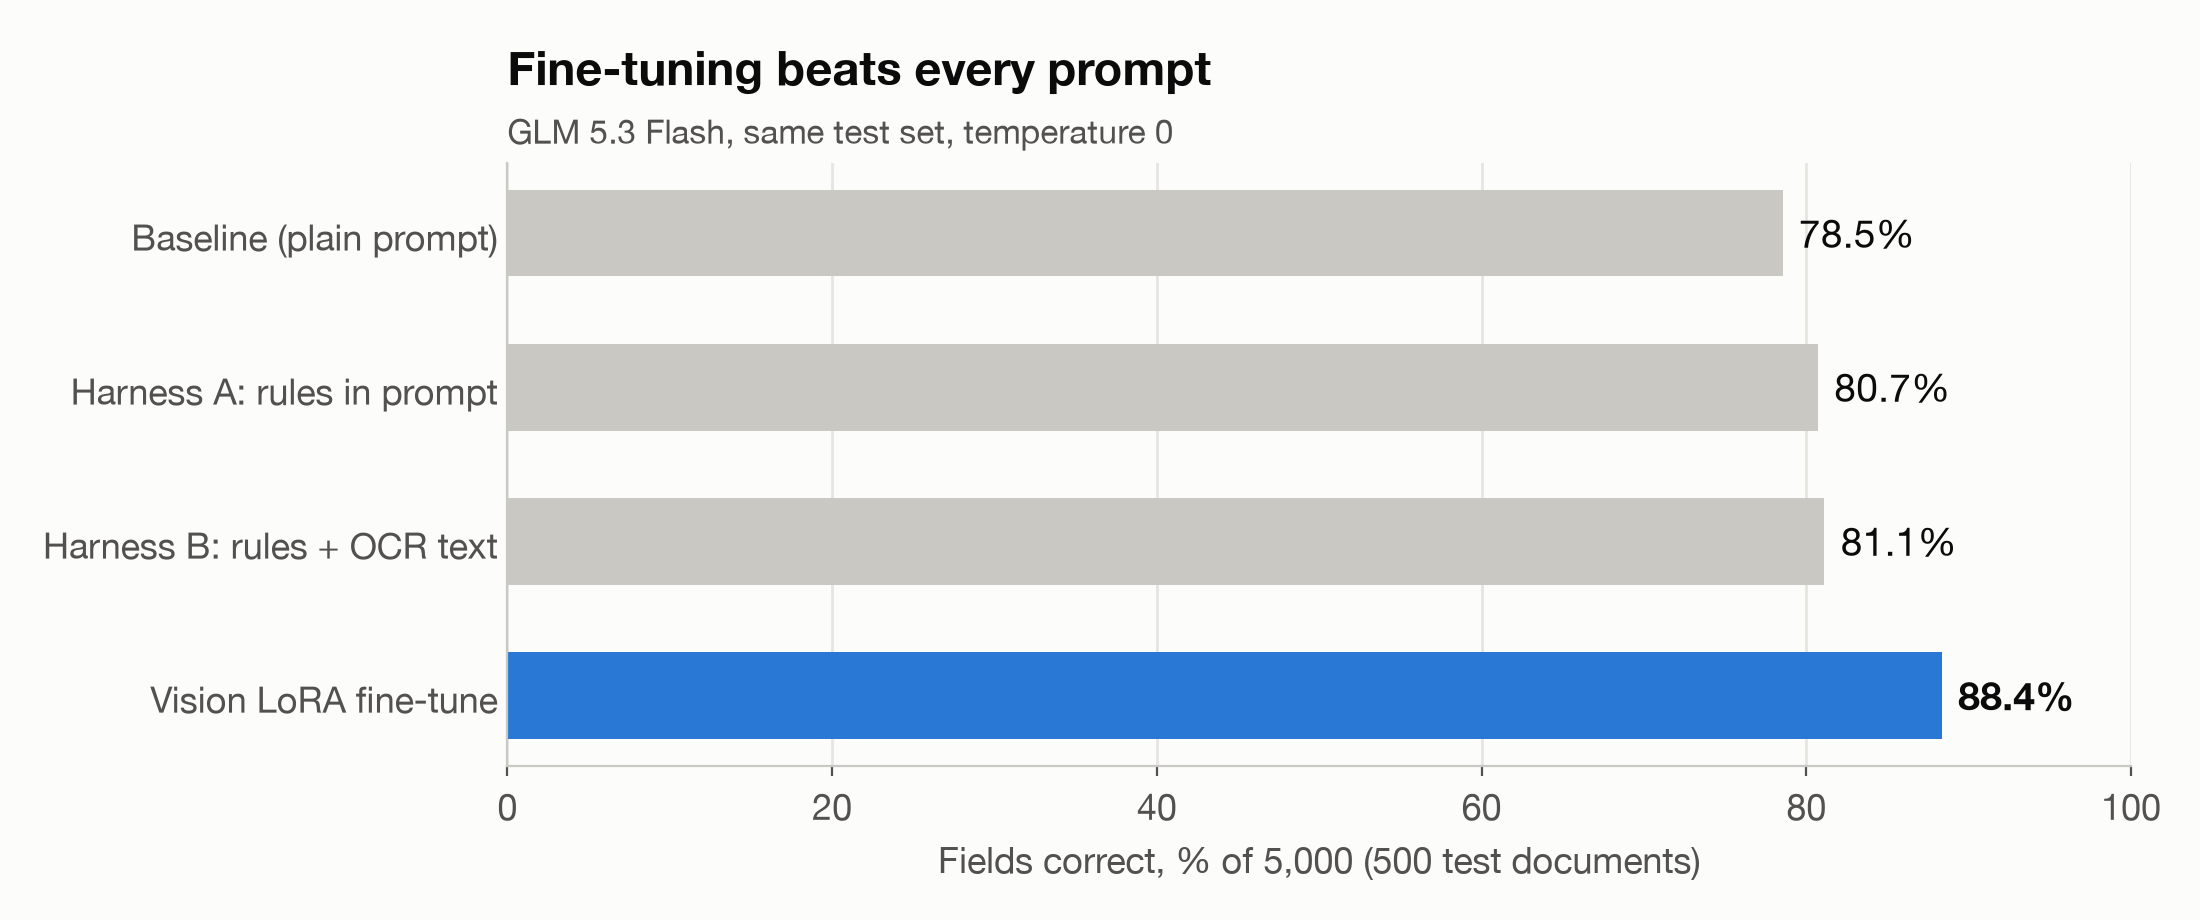
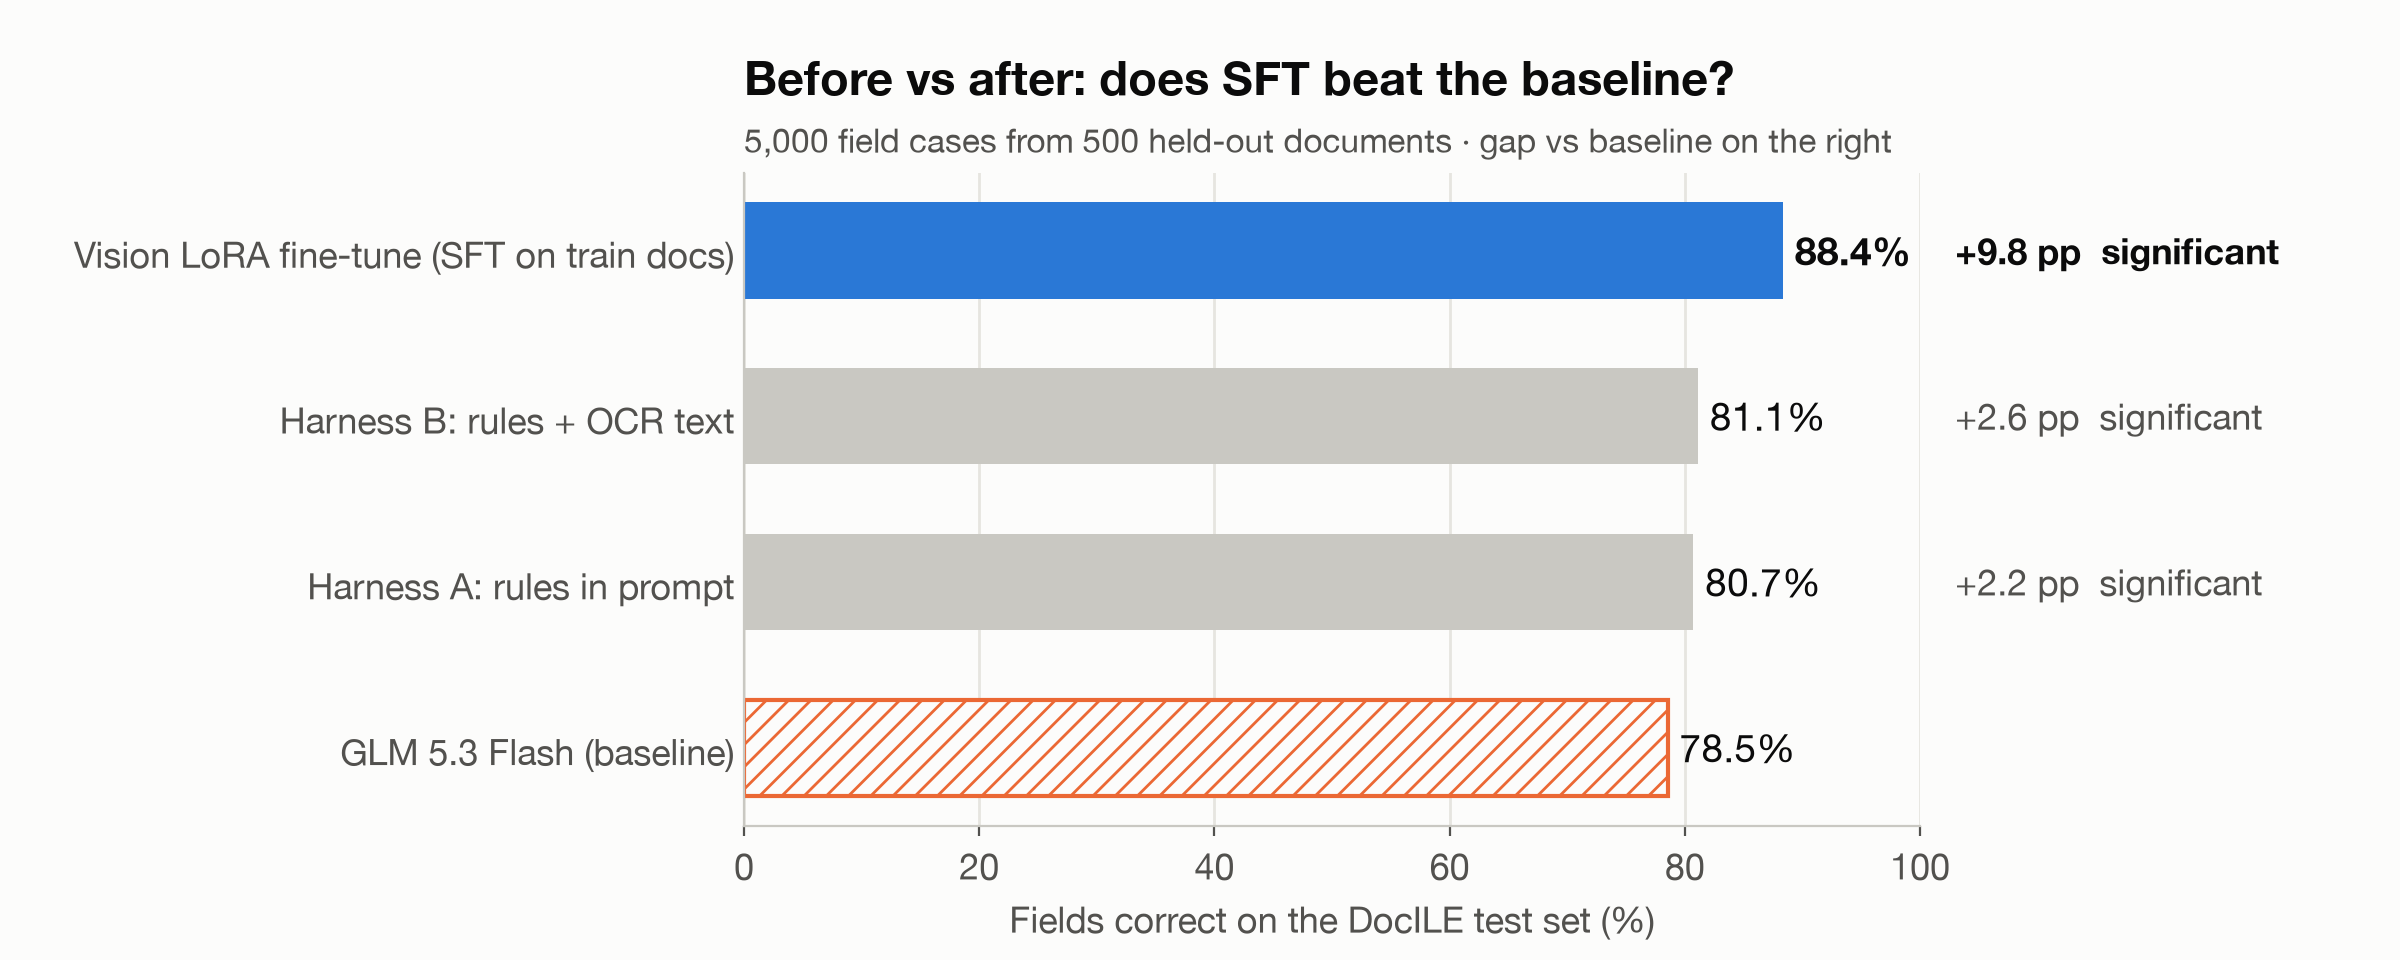
docile-forge: add business brief, document-level success chart, refreshed leaderboard

diff --git a/docile-forge/07_charts.py b/docile-forge/07_charts.py
@@ -38,23 +38,62 @@ def title(ax, t, sub=""):
 
 
 def leaderboard():
-    rows = [("Baseline (plain prompt)", BASE, MUTED), ("Harness A: rules in prompt", "glm_rules", MUTED),
-            ("Harness B: rules + OCR text", "glm_rules_ocr", MUTED), ("Vision LoRA fine-tune", SFT, BLUE)]
-    fig, ax = plt.subplots(figsize=(11, 4.6))
-    ys = range(len(rows))[::-1]
-    for y, (label, tag, c) in zip(ys, rows):
+    """Sample-deck style: every system, sorted, gap vs baseline with the significance verdict on the right."""
+    rep = json.loads((d.RESULTS / "report.json").read_text())
+    rows = [("Vision LoRA fine-tune (SFT on train docs)", SFT, BLUE, (SFT, BASE)),
+            ("Harness B: rules + OCR text", "glm_rules_ocr", MUTED, ("glm_rules_ocr", "glm")),
+            ("Harness A: rules in prompt", "glm_rules", MUTED, ("glm_rules", "glm")),
+            ("GLM 5.3 Flash (baseline)", BASE, None, None)]
+    fig, ax = plt.subplots(figsize=(12, 4.8))
+    ys = list(range(len(rows)))[::-1]
+    for y, (label, tag, c, pair) in zip(ys, rows):
         v = 100 * acc(tag)
-        ax.barh(y, v, height=0.56, color=c)
-        ax.text(v + 1, y, f"{v:.1f}%", va="center", fontsize=14, fontweight="bold" if tag == SFT else "normal", color=INK)
-    ax.set_yticks(list(ys), [r[0] for r in rows], fontsize=13)
+        if c is None:  # baseline: hatched, the reference every other row is measured against
+            ax.barh(y, v, height=0.58, color=SURFACE, edgecolor=ORANGE, hatch="///", lw=1.5)
+        else:
+            ax.barh(y, v, height=0.58, color=c)
+        ax.text(v + 1, y, f"{v:.1f}%", va="center", fontsize=14, fontweight="bold" if tag == SFT else "normal")
+        if pair:
+            r = next(x for x in rep["comparisons"] if x["a"] == pair[0] and x["b"] == pair[1] and x["subset"] == "all")
+            verdict = "significant" if r["significant"] else "n.s."
+            ax.text(103, y, f"{100 * r['bootstrap']['delta']:+.1f} pp  {verdict}", va="center", fontsize=13,
+                    fontweight="bold" if tag == SFT else "normal", color=INK if tag == SFT else INK2, clip_on=False)
+    ax.set_yticks(ys, [r[0] for r in rows], fontsize=13)
     ax.set_xlim(0, 100)
     ax.xaxis.grid(True, color=GRID, lw=1)
     ax.set_axisbelow(True)
     ax.tick_params(axis="y", length=0)
-    ax.set_xlabel("Fields correct, % of 5,000 (500 test documents)")
-    title(ax, "Fine-tuning beats every prompt", "GLM 5.3 Flash, same test set, temperature 0")
-    fig.tight_layout()
+    ax.set_xlabel("Fields correct on the DocILE test set (%)")
+    title(ax, "Before vs after: does SFT beat the baseline?", "5,000 field cases from 500 held-out documents · gap vs baseline on the right")
+    fig.subplots_adjust(left=0.31, right=0.8, top=0.82, bottom=0.14)
     fig.savefig(FIG / "leaderboard.png", dpi=200)
+
+
+def teammate():
+    if not (d.RESULTS / "teammate_ocr.json").exists():
+        return
+    """Teammate's OCR-input run. Separate chart: different input, test set and metric from ours."""
+    t = json.loads((d.RESULTS / "teammate_ocr.json").read_text())
+    ms = sorted(t["models"], key=lambda m: m["f1_fuzzy"], reverse=True)
+    fig, ax = plt.subplots(figsize=(12, 4.8))
+    ys, h = list(range(len(ms)))[::-1], 0.36
+    for y, m in zip(ys, ms):
+        ax.barh(y + h / 2 + 0.01, m["f1_fuzzy"], height=h, color=BLUE)
+        ax.barh(y - h / 2 - 0.01, m["f1_exact"], height=h, color=ORANGE)
+        ax.text(m["f1_fuzzy"] + 1, y + h / 2, f"{m['f1_fuzzy']:.1f}%", va="center", fontsize=12.5, fontweight="bold")
+        ax.text(m["f1_exact"] + 1, y - h / 2, f"{m['f1_exact']:.1f}%", va="center", fontsize=12.5, color=INK2)
+        ax.text(103, y, f"p50 {m['p50_s']:.2f}s · p95 {m['p95_s']:.2f}s", va="center", fontsize=12, color=INK2, clip_on=False)
+    ax.set_yticks(ys, [m["name"] + " (fine-tuned)" for m in ms], fontsize=13)
+    ax.set_xlim(0, 100)
+    ax.xaxis.grid(True, color=GRID, lw=1)
+    ax.set_axisbelow(True)
+    ax.tick_params(axis="y", length=0)
+    ax.set_xlabel("Field F1 on 200 held-out invoices (%)")
+    ax.legend(handles=[plt.Rectangle((0, 0), 1, 1, color=BLUE), plt.Rectangle((0, 0), 1, 1, color=ORANGE)],
+              labels=["Fuzzy match", "Exact match"], frameon=False, loc="lower right")
+    title(ax, "OCR-text route: three fine-tuned open models", "Teammate's run · different input, test set and metric from the image run — compare rows, not charts")
+    fig.subplots_adjust(left=0.24, right=0.8, top=0.82, bottom=0.14)
+    fig.savefig(FIG / "teammate_ocr.png", dpi=200)
 
 
 def significance():
@@ -155,6 +194,64 @@ def loss():
 
 if __name__ == "__main__":
     FIG.mkdir(exist_ok=True)
-    for f in (leaderboard, significance, mcnemar, per_field, loss):
+    for f in (leaderboard, teammate, significance, mcnemar, per_field, loss):
         f()
     print("wrote", sorted(p.name for p in FIG.glob("*.png")))
+
+
+def doc_success():
+    """Whole-document success: what automation actually needs (every field right, no human touch)."""
+    rows = [("Baseline", BASE, None), ("Harness B: rules + OCR", "glm_rules_ocr", MUTED), ("Vision LoRA fine-tune", SFT, BLUE)]
+    fig, ax = plt.subplots(figsize=(12, 4.2))
+    ys = list(range(len(rows)))[::-1]
+    for y, (label, tag, c) in zip(ys, rows):
+        R = list(d.load_results(tag).values())
+        v = 100 * sum(all(f["score"] for f in r["fields"]) for r in R) / len(R)
+        if c is None:
+            ax.barh(y, v, height=0.58, color=SURFACE, edgecolor=ORANGE, hatch="///", lw=1.5)
+        else:
+            ax.barh(y, v, height=0.58, color=c)
+        ax.text(v + 1, y, f"{v:.1f}%", va="center", fontsize=15, fontweight="bold" if tag == SFT else "normal")
+    ax.set_yticks(ys, [r[0] for r in rows], fontsize=13)
+    ax.set_xlim(0, 100)
+    ax.xaxis.grid(True, color=GRID, lw=1)
+    ax.set_axisbelow(True)
+    ax.tick_params(axis="y", length=0)
+    ax.set_xlabel("Test documents with all 10 fields correct (%)")
+    title(ax, "Field accuracy compounds: 3x more invoices need no human touch", "500 held-out documents · a document is automatable only if every field is right")
+    fig.subplots_adjust(left=0.22, right=0.95, top=0.8, bottom=0.17)
+    fig.savefig(FIG / "doc_success.png", dpi=200)
+
+
+if __name__ == "__main__":
+    doc_success()
+
+
+def invoiceroute():
+    return  # teammate data not published
+    """Teammate's InvoiceRoute (OCR text -> JSON): DeepSeek V4.1 Flash baseline vs fine-tuned, 200 held-out docs."""
+    metrics = [("Field F1, fuzzy", 47.53, 78.33), ("Field F1, exact", 42.22, 70.17), ("Doc success (all fields exact)", 0.0, 4.5)]
+    fig, ax = plt.subplots(figsize=(12, 4.6))
+    ys, h = list(range(len(metrics)))[::-1], 0.36
+    for y, (m, b, f) in zip(ys, metrics):
+        ax.barh(y + h / 2 + 0.01, f, height=h, color=BLUE)
+        ax.barh(y - h / 2 - 0.01, max(b, 0.001), height=h, color=SURFACE, edgecolor=ORANGE, hatch="///", lw=1.5)
+        ax.text(f + 1, y + h / 2, f"{f:.1f}%", va="center", fontsize=13, fontweight="bold")
+        ax.text(b + 1, y - h / 2, f"{b:.1f}%", va="center", fontsize=13, color=INK2)
+        ax.text(103, y, f"{f - b:+.1f} pp", va="center", fontsize=14, fontweight="bold", clip_on=False)
+    ax.set_yticks(ys, [m[0] for m in metrics], fontsize=13)
+    ax.set_xlim(0, 100)
+    ax.xaxis.grid(True, color=GRID, lw=1)
+    ax.set_axisbelow(True)
+    ax.tick_params(axis="y", length=0)
+    ax.set_xlabel("200 held-out documents, OCR text input (%)")
+    ax.legend(handles=[plt.Rectangle((0, 0), 1, 1, color=BLUE),
+                       plt.Rectangle((0, 0), 1, 1, facecolor=SURFACE, edgecolor=ORANGE, hatch="///")],
+              labels=["Fine-tuned", "Baseline"], frameon=False, loc="lower right")
+    title(ax, "InvoiceRoute: DeepSeek V4.1 Flash, before vs after", "Teammate's run · OCR text to JSON · exact field F1 +27.95 pp")
+    fig.subplots_adjust(left=0.25, right=0.88, top=0.82, bottom=0.15)
+    fig.savefig(FIG / "invoiceroute.png", dpi=200)
+
+
+if __name__ == "__main__":
+    invoiceroute()

diff --git a/docile-forge/docs/market-and-why-accuracy.md b/docile-forge/docs/market-and-why-accuracy.md
@@ -1,0 +1,105 @@
+# Why invoice extraction is worth solving, and why accuracy is the whole game
+
+*A business-strategy brief for the DocILE fine-tune. Market figures are third-party estimates (sources at the end);
+everything labelled "measured" comes from our own test set.*
+
+## 1. The market
+
+**Intelligent document processing (IDP)** — software that reads documents and turns them into structured data — is one of
+the fastest-growing enterprise AI categories.
+
+| Figure | Value | Source |
+| --- | --- | --- |
+| IDP market, 2025 | **$10.4B** | Fortune Business Insights |
+| IDP market, 2034 (forecast) | **$88.9B** | Fortune Business Insights |
+| Growth rate, 2026–2034 | **26.8% CAGR** | Fortune Business Insights |
+| Leading function | **Finance & accounting** | Fortune Business Insights |
+| North America share, 2025 | 46% ($4.8B) | Fortune Business Insights |
+| US bookkeeping, accounting & auditing clerks | **1.53M jobs** (2025), median **$24.36/hour** | US Bureau of Labor Statistics |
+| Outlook for those jobs | −6% by 2035, with automation software named as the main driver | US Bureau of Labor Statistics |
+
+Analyst estimates of IDP market size vary a lot between firms; treat the absolute numbers as directional. The direction
+is not in doubt: finance and accounting is the biggest use case, and invoices are its highest-volume document.
+
+**Who buys.** Accounts-payable (AP) teams, shared-service centres and business-process outsourcers that key in vendor
+invoices, purchase orders and receipts. Their incumbent tools are OCR-plus-templates products (one template per vendor
+layout) and, increasingly, LLM-based extraction.
+
+## 2. Why this is still unsolved
+
+**The long tail of layouts.** DocILE alone has 1,003 layout clusters in its training set. Template-based OCR needs a
+template per vendor; general-purpose LLMs handle any layout but don't know each team's conventions.
+
+**The house rules.** The hard part isn't reading text, it's knowing which text counts: the vendor's order number vs the
+customer's PO, the total after commission, leaving currency blank when none is printed. Measured: base GLM 5.3 Flash
+got order_id right 58% of the time and currency 66%.
+
+**Messy inputs.** Real invoices are scans with stamps, handwriting and skew — the 1990s documents in DocILE are a fair
+stress test.
+
+## 3. Why accuracy has to be *high*, not just good
+
+### Field accuracy compounds at the document level
+
+A document can only skip human review if **every** field is right. Ten fields at 90% each is not "90% automated":
+
+| System (measured, 500 test documents) | Field accuracy | Documents with all 10 fields right | Documents with ≤ 1 error | Errors per document |
+| --- | --- | --- | --- | --- |
+| Base GLM 5.3 Flash | 78.5% | **12.8%** | 38.6% | 2.15 |
+| Best prompt (rules + OCR) | 81.1% | 18.8% | 46.2% | 1.89 |
+| **Fine-tuned** | **88.4%** | **38.8%** | **70.0%** | **1.16** |
+
+A +9.8-point gain in field accuracy is a **3× increase in fully automatable invoices**. That is why the last ten points
+are worth more than the first seventy.
+
+### Errors are asymmetric
+
+- **A wrong amount is a wrong payment.** Measured: the fine-tune gets *both* money fields right on 84.2% of documents,
+  vs 74.4% for the baseline. The rules prompt made this *worse* (63.4%) while improving other fields — prompting traded
+  one error for another.
+- **An invented value is worse than a blank.** A blank gets routed to a human; a confident wrong value goes straight
+  into the ledger. Measured: the baseline left absent fields null only 65% of the time; the fine-tune 87%.
+- **Errors are expensive downstream.** Wrong vendor, duplicate or mis-keyed invoices surface later as payment
+  disputes, late fees and audit findings — far more costly than the original keystrokes.
+
+### Accuracy is what unlocks straight-through processing
+
+AP automation is judged by the share of invoices that flow through untouched. Every percentage point of document-level
+accuracy is a point of straight-through processing, and every exception costs a human minutes.
+
+## 4. Value, with the assumptions written out
+
+Illustrative, for one AP team; replace the assumptions with a real team's numbers.
+
+| Assumption | Value |
+| --- | --- |
+| Invoices per month | 5,000 |
+| Human time to check and fix one invoice that isn't fully right | 3 minutes |
+| Loaded labour rate | $24.36/hour (BLS median clerk wage, before overhead) |
+
+| | Baseline | Fine-tune |
+| --- | --- | --- |
+| Invoices needing a human touch (1 − all-fields-right) | 87.2% → 4,360 | 61.2% → 3,060 |
+| Human hours per month | 218 | 153 |
+| **Saved** | | **~65 hours/month ≈ $1,600/month ≈ $19,000/year** |
+
+That's per 5,000 invoices a month, before overhead, and before counting the cost of the errors that would otherwise
+reach payment. The model itself is cheap: the base model cost **$0.24 for all 500 test documents** on Fireworks
+serverless (about $0.0005 per invoice). Serving the fine-tune needs a dedicated deployment, which we did not measure.
+
+## 5. Why a fine-tuned open model
+
+- **Accuracy where it matters**: +9.8 points overall, every field better, and still +4.7 on vendor layouts it never saw.
+- **Cost**: a small open model at fractions of a cent per invoice; one $36 training run.
+- **Control**: open weights you own. Financial documents can stay in an environment you control.
+- **A path to keep improving**: GEDD (see the README) turns AP experts' judgments on the remaining errors into an
+  LLM-as-Judge gate (post / block / human review) and new training data.
+
+## Sources
+
+- Fortune Business Insights, *Intelligent Document Processing Market Size, Share & Industry Analysis*
+  (fortunebusinessinsights.com/intelligent-document-processing-market-108590), accessed 2 Nov 2026.
+- U.S. Bureau of Labor Statistics, *Occupational Outlook Handbook: Bookkeeping, Accounting, and Auditing Clerks*
+  (bls.gov/ooh/office-and-administrative-support/bookkeeping-accounting-and-auditing-clerks.htm), accessed 2 Nov 2026.
+- Šimsa et al., *DocILE Benchmark for Document Information Localization and Extraction*, ICDAR 2023.
+- All "measured" figures: this repo, `results/*.jsonl`, 500 held-out DocILE documents.

diff --git a/docile-forge/README.md b/docile-forge/README.md
@@ -10,6 +10,8 @@ p = 1e-76, layout-cluster bootstrap 95% CI [+7.7, +12.2]). On layouts it never s
 still real (+4.7, CI [+1.8, +8.1]). Prompting with the labelling rules gained only +2.2 to +2.6, and traded one kind of
 error for another. Total Fireworks spend: about $40.
 
+**Why it matters:** an invoice skips human review only if every field is right. The fine-tune raises fully correct documents from 12.8% to **38.8%** (3x). See [docs/market-and-why-accuracy.md](docs/market-and-why-accuracy.md) for the market and value case.
+
 ## Data
 
 [DocILE](https://docile.rossum.ai/) (Šimsa et al., [ICDAR 2023](https://arxiv.org/abs/2302.05658)) is a benchmark of real
